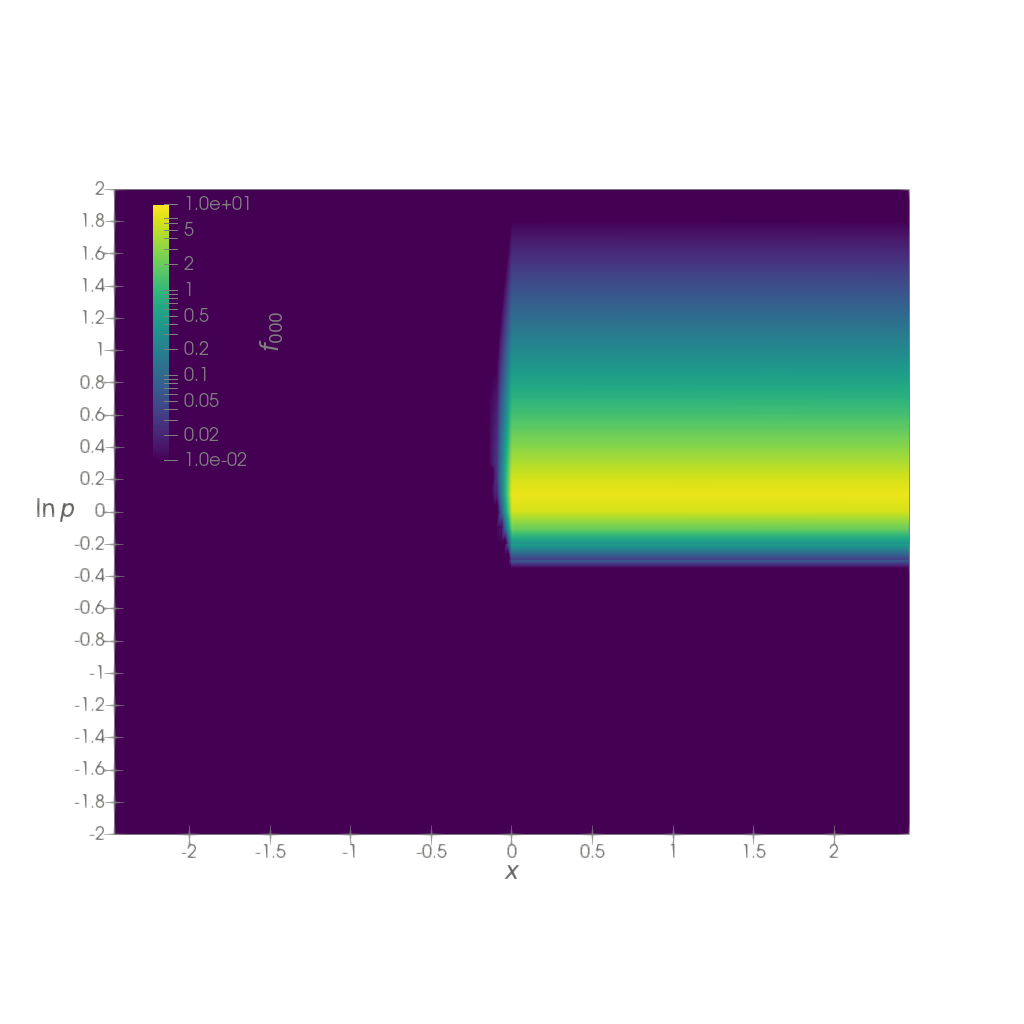
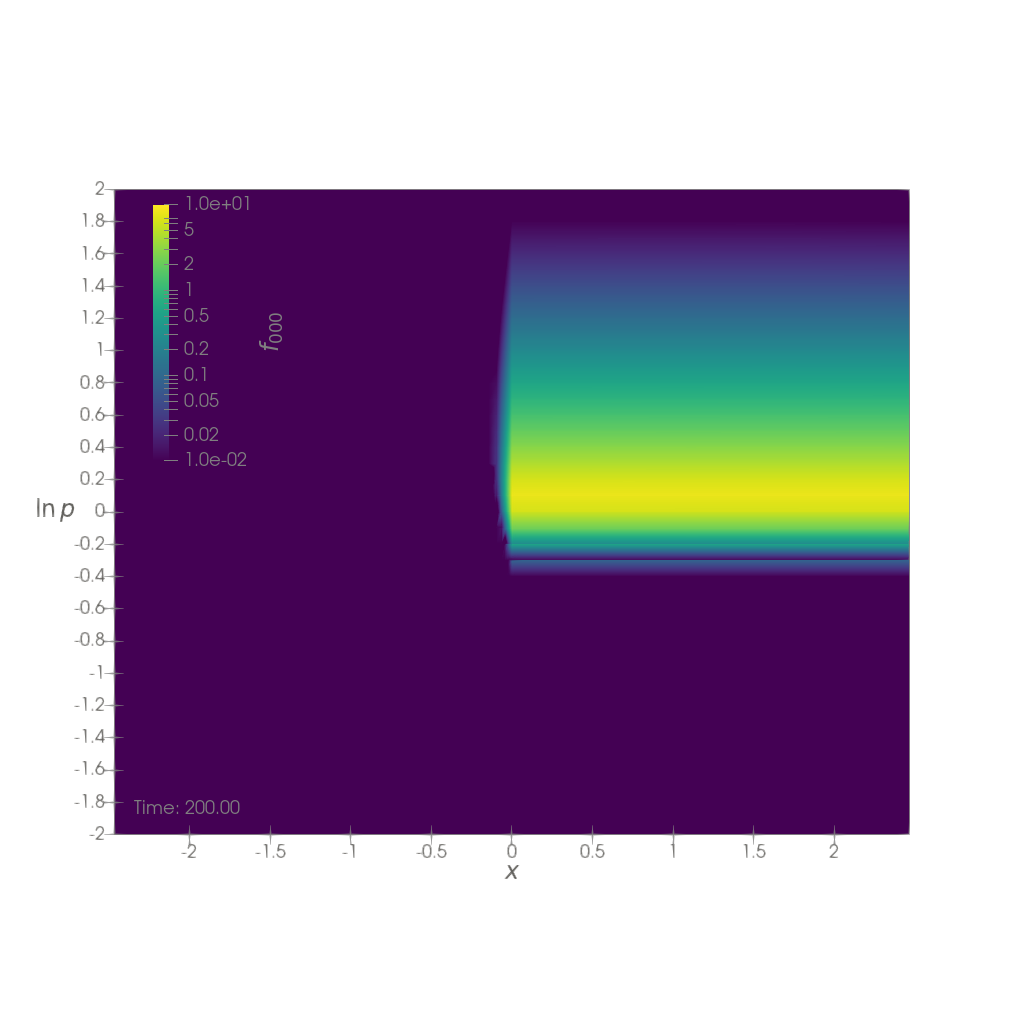
doc(examples): Add time in quick-start

Changed region(s): [[0.5, 0.5312, 0.9062, 0.5625], [0.125, 0.7812, 0.25, 0.8125]]

diff --git a/examples/plot_quick_start.py b/examples/plot_quick_start.py
@@ -11,6 +11,7 @@ def main() -> dict:
         dimension=2,
         momentum=True,
         color_bar_position=[0.15, 0.55],
+        time_location=[0.13, 0.2],
         animation_transparent_background=True,
     )
 
@@ -27,6 +28,7 @@ def main() -> dict:
         plot_properties,
         lms_index=[0, 0, 0],
         value_range=[1e-2, 10.0],
+        show_time=True,
         save_animation=True,
     )
     # endregion

diff --git a/examples/create_logo.py b/examples/create_logo.py
@@ -18,8 +18,8 @@ def main() -> dict:
         grid_labels=["", "", ""],
         color_bar_length=0,
         color_map="Black, Blue and White",
-        text_color=[0, 0, 0],
-        grid_color=[0, 0, 0],
+        text_color="black",
+        grid_color="black",
         text_size=0,
         label_size=0,
         camera_view_2d=(True, 0.9),

diff --git a/docs/examples/plot_quick_start.md b/docs/examples/plot_quick_start.md
@@ -47,7 +47,8 @@ For the quick-start example,
 the reduced phase space is of dimension `2`,
 and momentum terms are activated in Sapphire++.
 We also set the
-{py:attr}`color_bar_position <sapphireppplot.plot_properties.PlotProperties.color_bar_position>`
+{py:attr}`color_bar_position <sapphireppplot.plot_properties.PlotProperties.color_bar_position>`,
+the {py:attr}`time_location <sapphireppplot.plot_properties.PlotProperties.time_location>`
 and enable a transparent background for animations:
 
 ```python
@@ -55,6 +56,7 @@ and enable a transparent background for animations:
         dimension=2,
         momentum=True,
         color_bar_position=[0.15, 0.55],
+        time_location=[0.13, 0.2],
         animation_transparent_background=True,
     )
 ```
@@ -94,6 +96,7 @@ To display the $f_{000}$ component, set `lms_index=[0, 0, 0]`.
 Since the plot uses a logarithmic color scale, we define the `value_range` to display.
 In addition to the image at the final time (`quick-start-2D.png`),
 an animation is saved as a series of PNG files (`quick-start-2D.XXXX.png`).
+To indicate the simulation time in the animation, we use `show_time=True`.
 
 ```python
     layout_2d, render_view_2d = vfp.plot_f_lms_2d(
@@ -103,11 +106,16 @@ an animation is saved as a series of PNG files (`quick-start-2D.XXXX.png`).
         plot_properties,
         lms_index=[0, 0, 0],
         value_range=[1e-2, 10.0],
+        show_time=True,
         save_animation=True,
     )
 ```
 
 ![Quick-start 2D render view](figures/quick-start-2D.png)
+
+The animation snapshots can be converted to a `gif` using
+[ImageMagick Convert](https://imagemagick.org/script/convert.php)
+as shown [below](#converting-animation-snapshots-to-gif).
 
 ## Plotting $f(x)$
 
@@ -377,13 +385,17 @@ ls $SAPPHIREPP_RESULTS/quick-start/01
 > ...
 ```
 
-The animation snapshots `quick-start-2D.XXXX.png` can be converted into an animated .gif
+#### Converting animation snapshots to `gif`
+
+The animation snapshots `quick-start-2D.XXXX.png` can be converted into an animated `gif`
 using [ImageMagick Convert](https://imagemagick.org/script/convert.php):
 
 ```bash
 magick -delay 1 -loop 0 $SAPPHIREPP_RESULTS/quick-start/01/quick-start-2D.*.png $SAPPHIREPP_RESULTS/quick-start/01/quick-start-2D.gif
 rm $SAPPHIREPP_RESULTS/quick-start/01/quick-start-2D.*.png
 ```
+
+![Quick-start 2D animation](figures/quick-start-2D.gif)
 
 ### 2. Using the ParaView Python Console
 
